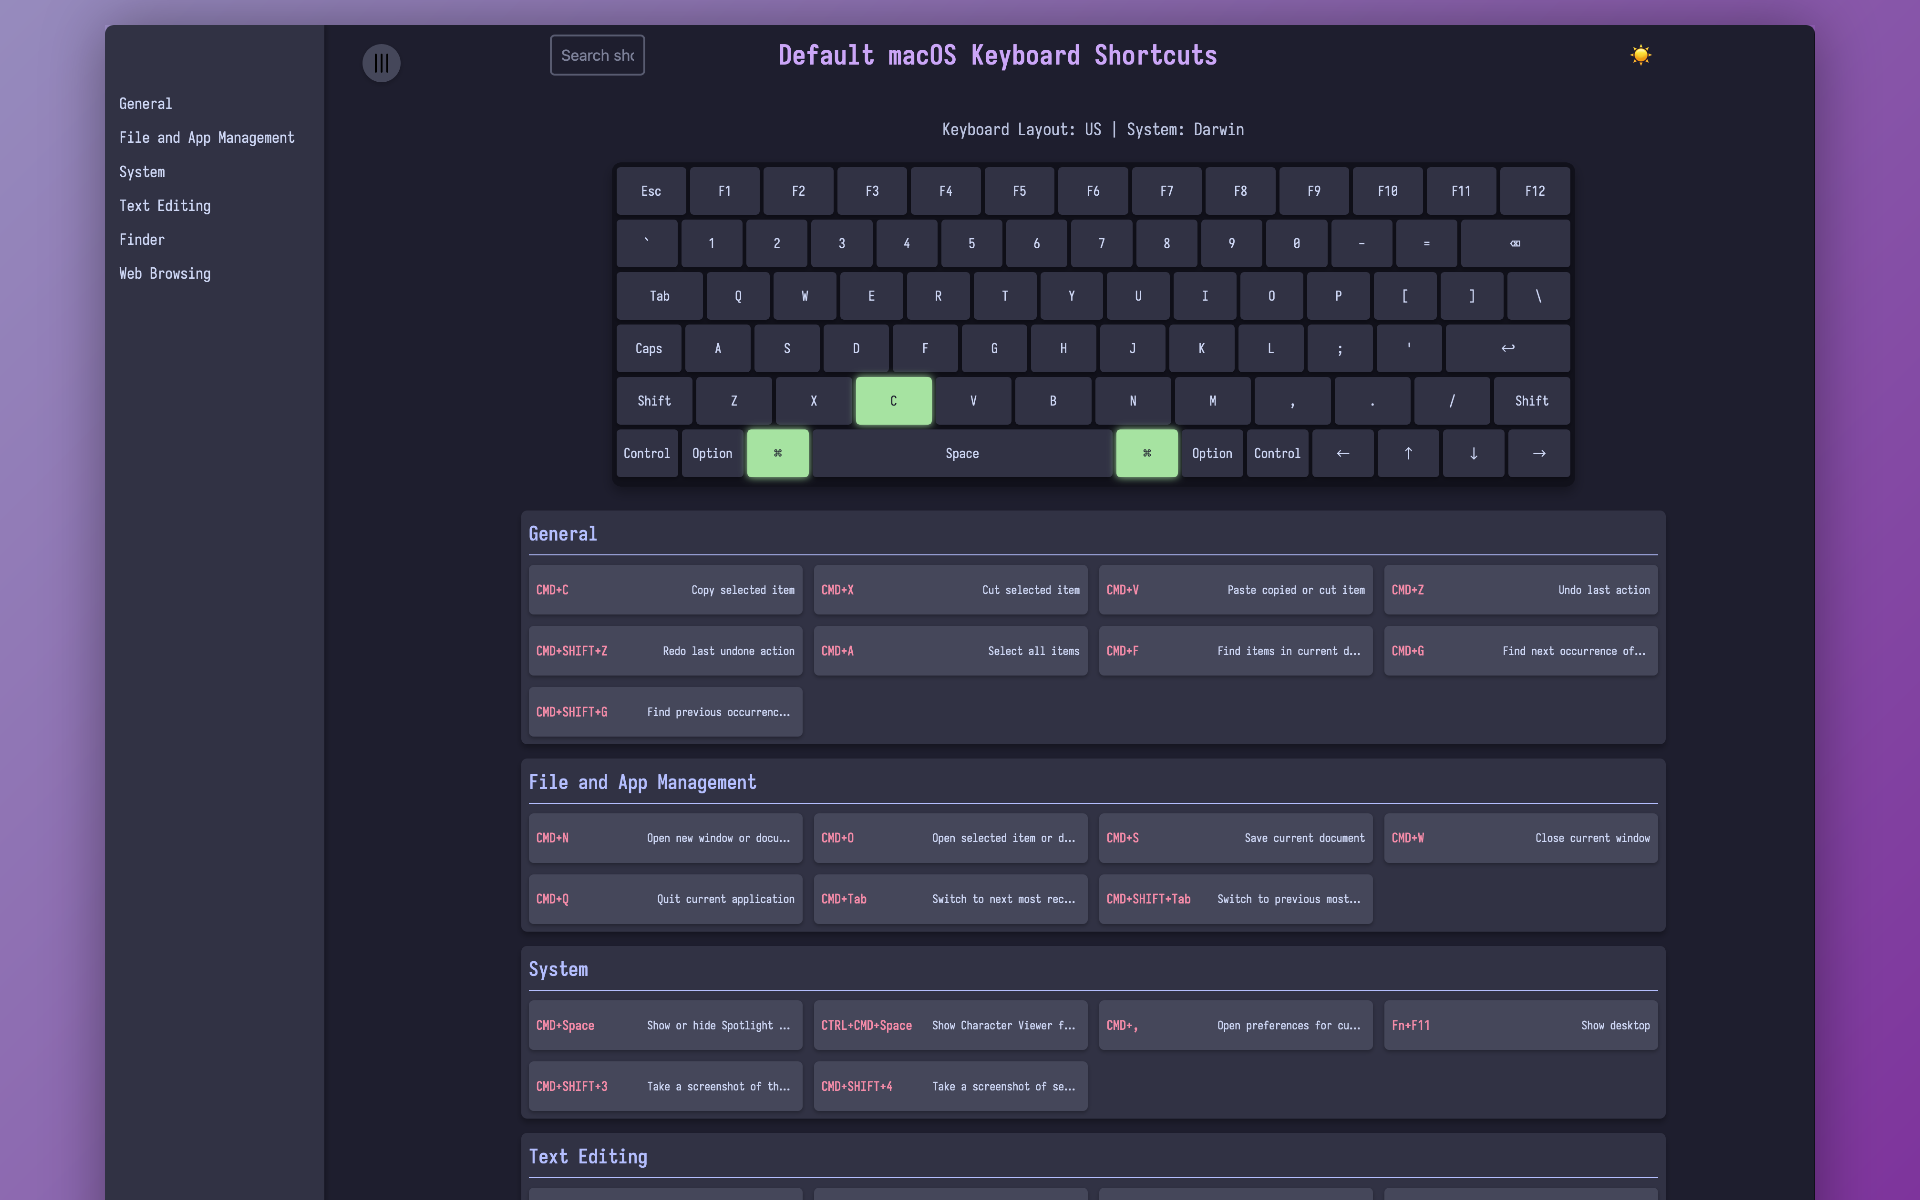
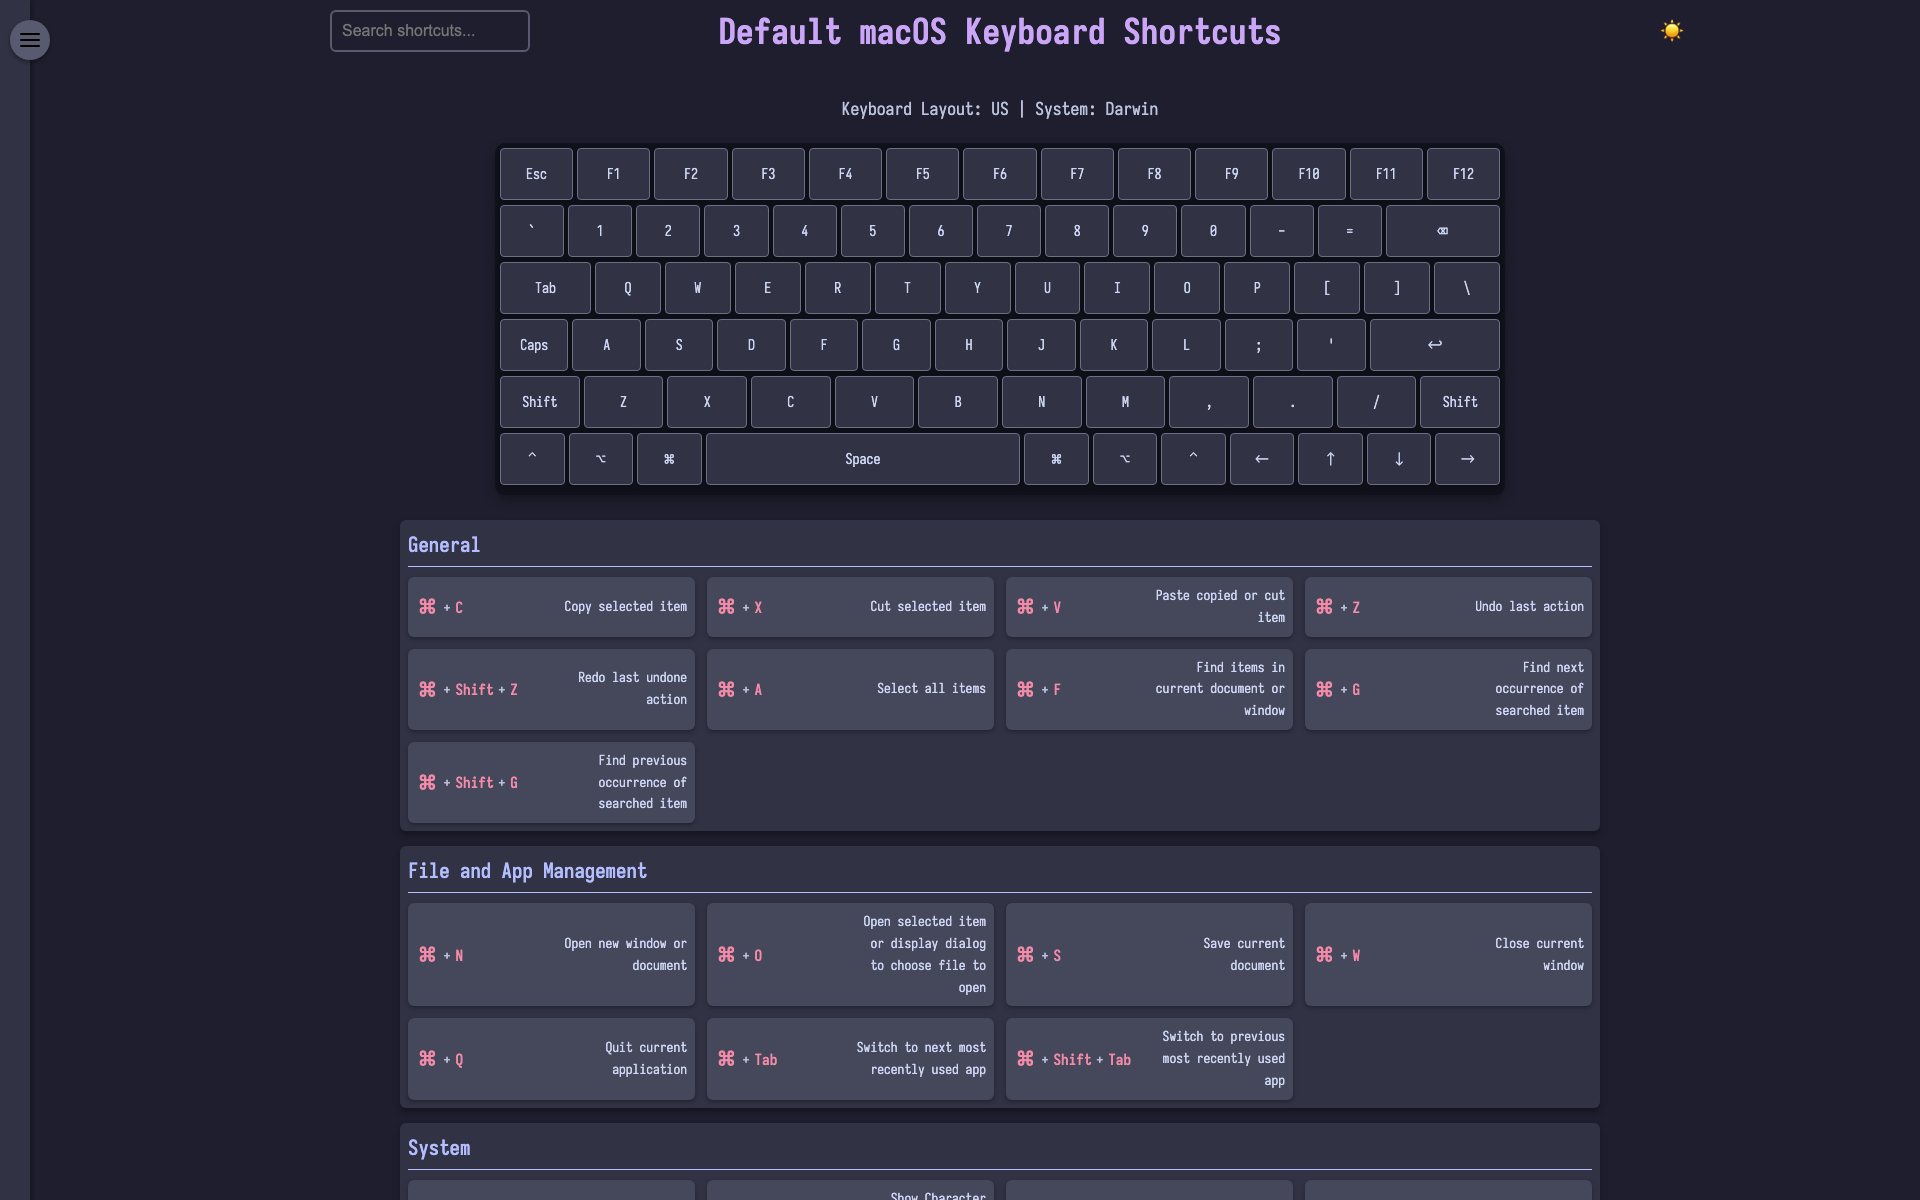
docs: update CLI usage, themes, and example screenshot

diff --git a/README.md b/README.md
@@ -12,7 +12,7 @@ A simple tool to create and manage portable keyboard shortcut cheat sheets.
 
 KoalaKeys generates and organizes portable, interactive HTML cheat sheets for keyboard shortcuts. It's designed for developers, designers, and power users who want to keep their essential shortcuts easily accessible.
 
-> **Quick Start**: To create a cheat sheet, add a YAML file to the `cheatsheets` directory and run `python src/generate_cheatsheet.py`. For detailed YAML formatting instructions, see the [YAML Cheat Sheet Specification Guide](yaml_cheatsheet_spec.md).
+> **Quick Start**: Run `uvx koalakeys init` to scaffold a project, add or edit YAML files in its `cheatsheets/` directory, then run `koalakeys generate`. For detailed YAML formatting instructions, see the [YAML Cheat Sheet Specification Guide](yaml_cheatsheet_spec.md).
 
 ## Screenshots
 
@@ -25,6 +25,7 @@ KoalaKeys generates and organizes portable, interactive HTML cheat sheets for ke
 
 - Generate HTML cheat sheets from YAML files
 - Interactive keyboard layout with real-time highlighting
+- Six built-in themes (catppuccin, dracula, gruvbox, nord, rosé-pine, solarized) plus user themes and custom CSS
 - Categorized shortcuts with descriptions
 - Index page for quick access to all cheat sheets
 - Search functionality
@@ -58,42 +59,74 @@ Explore the demo to see how KoalaKeys works and to get ideas for creating custom
 
 ## Requirements
 
-- Python 3.8+
+- Python 3.9+
+- [uv](https://docs.astral.sh/uv/)
 
 ## Installation
 
-1. Clone the repository:
+### Recommended: run as a tool (no clone)
+
+Run KoalaKeys directly with [uv](https://docs.astral.sh/uv/), no need to clone the repository:
+
+```
+uvx koalakeys init        # scaffold ./koalakeys/cheatsheets/ with an example sheet
+```
+
+Or install it on your PATH:
+
+```
+uv tool install koalakeys     # or: pipx install koalakeys
+```
+
+### From source (for development)
+
+1. Clone the repository and install dependencies:
 
     ```
     git clone https://github.com/rtuszik/KoalaKeys
     cd KoalaKeys
-    ```
-
-2. Create and activate a virtual environment (optional):
-
-    ```
     uv sync --locked
     ```
 
-3. Set up the output directory:
-   Create a `.env` file in the project root with:
-    ```
-    CHEATSHEET_OUTPUT_DIR=path/to/your/output/directory
-    ```
+2. Run via `uv run koalakeys ...`.
 
 ## Usage
 
-1. Create YAML files for your cheat sheets in the `cheatsheets` directory. For detailed instructions on how to format YAML files, please refer to the [YAML Cheat Sheet Specification Guide](yaml_cheatsheet_spec.md).
+KoalaKeys is a multi-command CLI. All commands operate on the **current directory**: they read `cheatsheets/` and write to `output/` (or `CHEATSHEET_OUTPUT_DIR` if set).
 
-2. Generate cheat sheets:
+| Command                     | What it does                                                                                                                                                            |
+| --------------------------- | ----------------------------------------------------------------------------------------------------------------------------------------------------------------------- |
+| `koalakeys init [path]`     | Scaffold a new project directory with an example cheat sheet. Defaults to `./koalakeys`; use `.` for the current directory. Pass `--force` to overwrite existing files. |
+| `koalakeys generate`        | Generate HTML for every YAML file in `cheatsheets/`, plus an index page.                                                                                                |
+| `koalakeys validate [file]` | Validate cheat sheet YAML. Checks all of `cheatsheets/` by default, or a single file. Exits non-zero on failure (CI-friendly).                                          |
 
-    ```
-    uv run src/generate_cheatsheet.py
-    ```
+Typical first run:
 
-3. Find the HTML cheat sheets in the specified output directory.
+```
+koalakeys init
+cd koalakeys
+koalakeys generate
+```
 
-4. Open `index.html` to view the cheat sheet collection.
+Then open `output/index.html` to view the cheat sheet collection. For detailed YAML formatting, see the [YAML Cheat Sheet Specification Guide](yaml_cheatsheet_spec.md).
+
+### Output directory (optional)
+
+By default cheat sheets are written to `output/` in the current directory. To change this, set `CHEATSHEET_OUTPUT_DIR` (e.g. in a `.env` file):
+
+```
+CHEATSHEET_OUTPUT_DIR=path/to/your/output/directory
+```
+
+## Theming
+
+Set a theme per cheat sheet with a single key:
+
+```yaml
+theme: dracula
+```
+
+See the [YAML Cheat Sheet Specification Guide](yaml_cheatsheet_spec.md) for the built-in themes, user-theme authoring, and custom CSS.
 
 ## Schema
 
